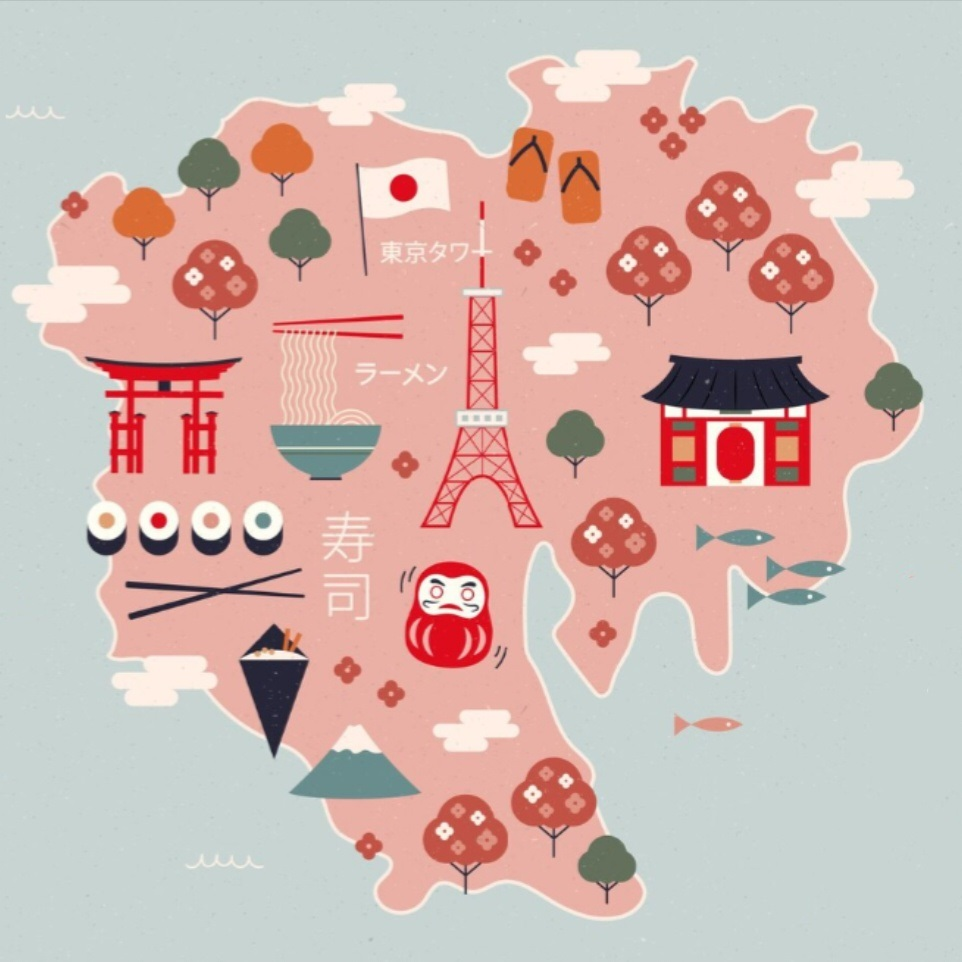
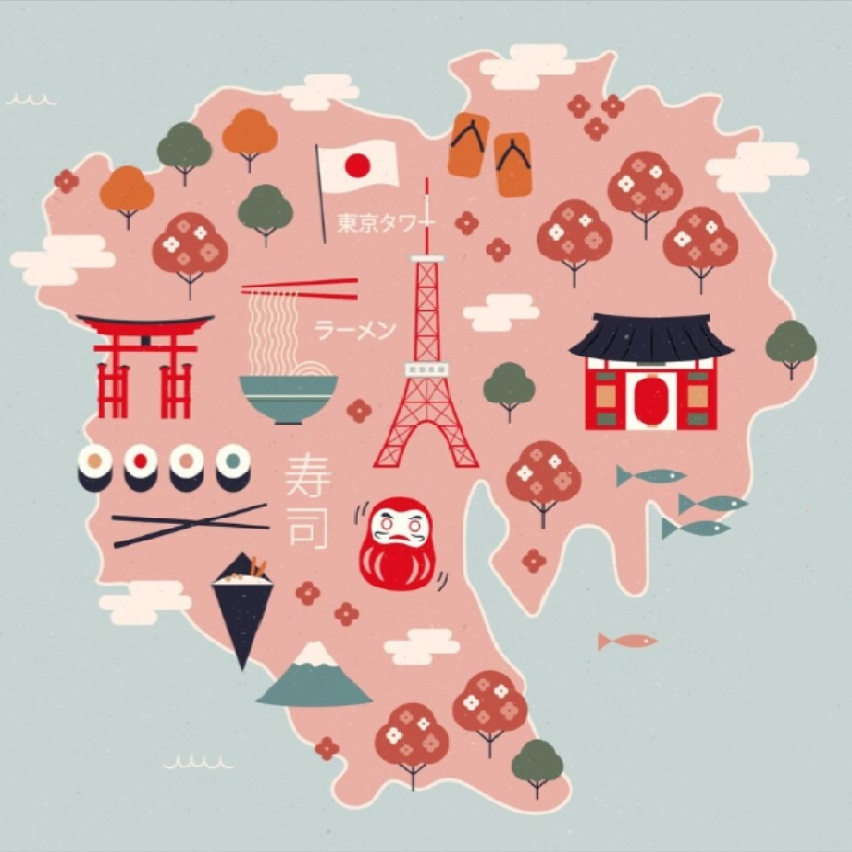
1

diff --git a/999.개인 프로젝트2/sub.html b/999.개인 프로젝트2/sub.html
@@ -40,8 +40,8 @@
                 top: calc(50% - 590px / 2);
                 left: calc(50% - 500px / 2);
                 /* transform: translate(-50%, -50%); */
-                width: 1180px;
-                height: 1000px;
+                width: 852px;
+                height: 852px;
                 outline: 1px solid #ccc;
                 overflow: hidden;
                 /*바깥으로 나가는 #mask박스 숨기기*/
@@ -50,8 +50,8 @@
             /*가장 아래 깔리는 박스*/
             #bg {
                 position: absolute;
-                width: 1180px;
-                height: 1000px;
+                width: 852px;
+                height: 852px;
                 background: url(images/map2.jpg) no-repeat fixed;
             }
 
@@ -60,8 +60,8 @@
                 position: absolute;
                 top: 0;
                 left: 0;
-                width: 200px;
-                height: 200px;
+                width: 300px;
+                height: 300px;
                 border-radius: 50%;
                 /*원*/
                 background: url(images/map1.jpg) no-repeat fixed;
